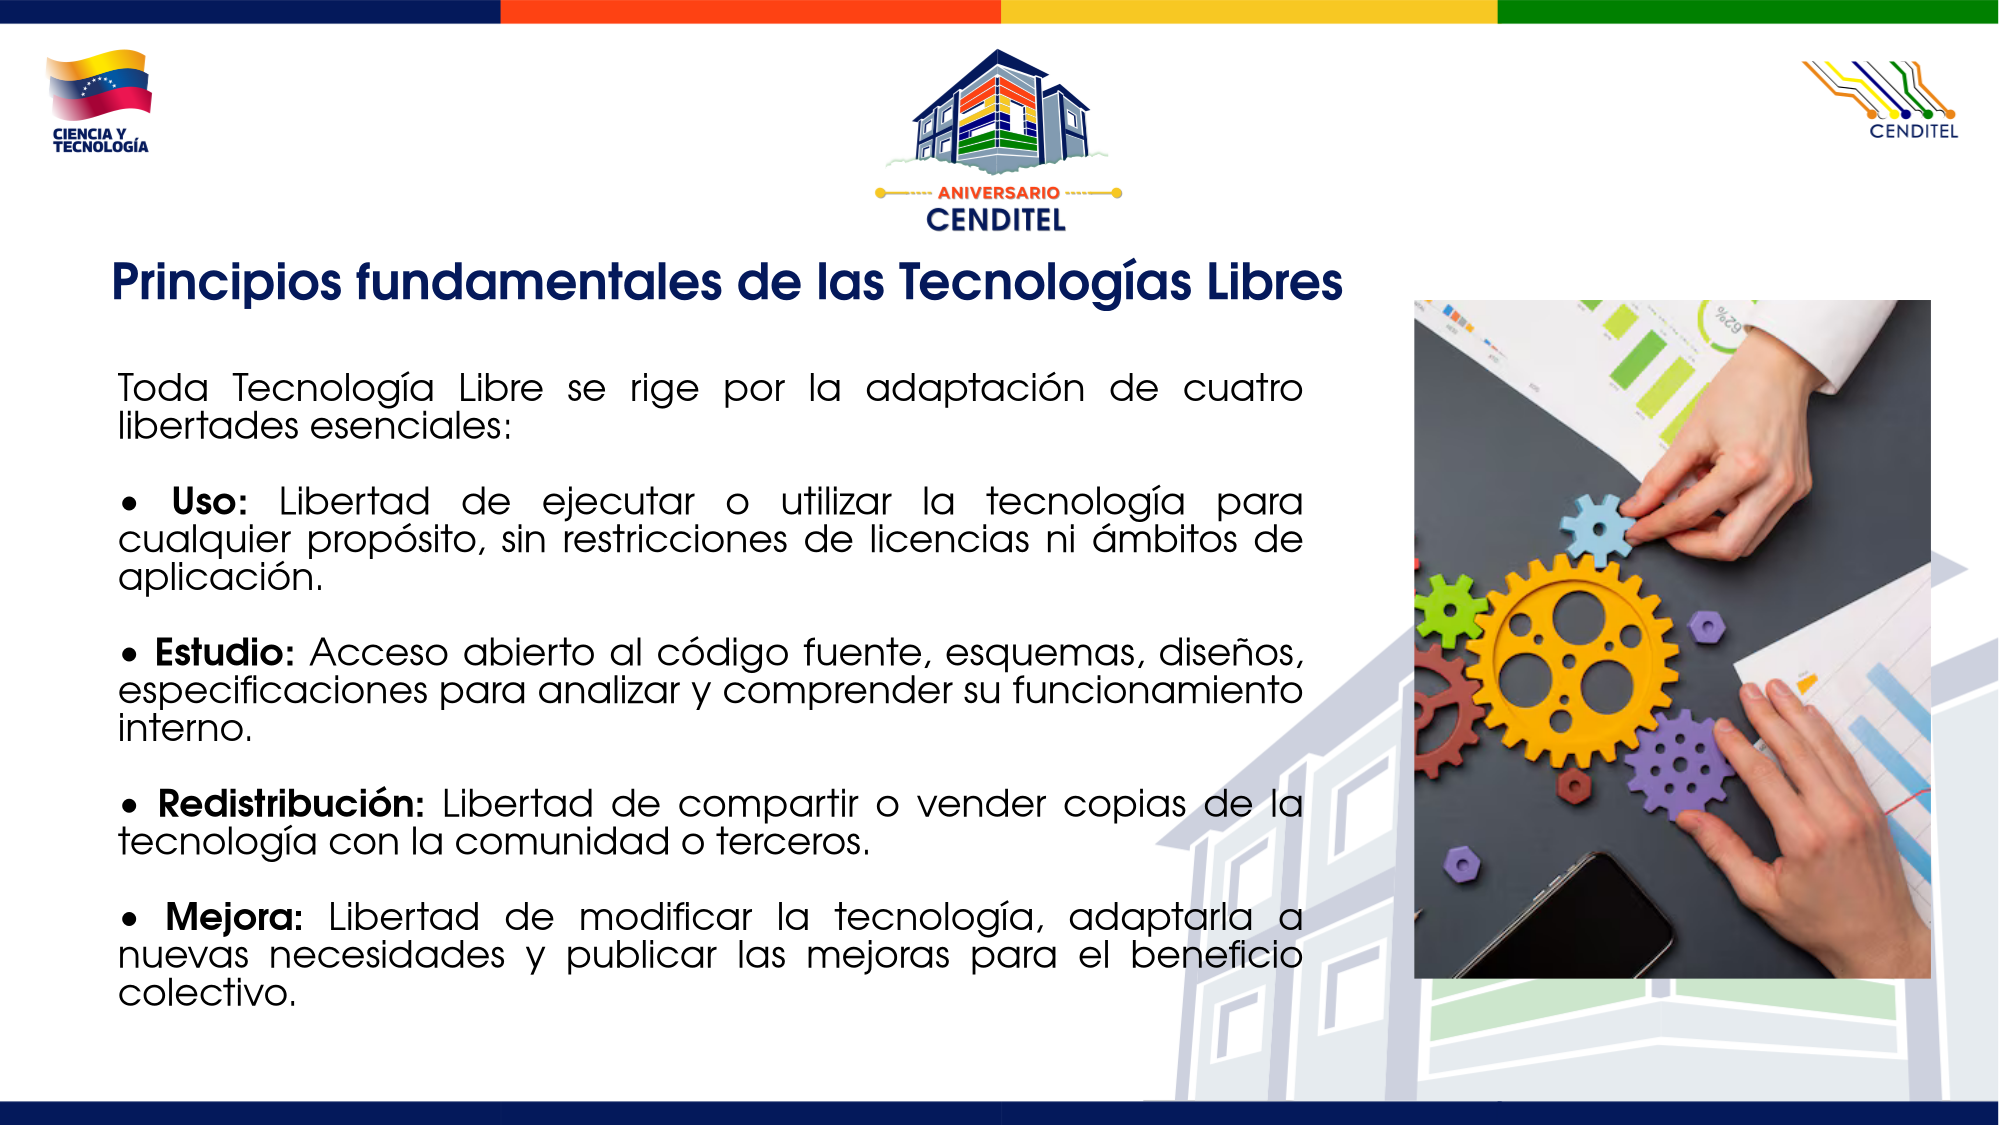
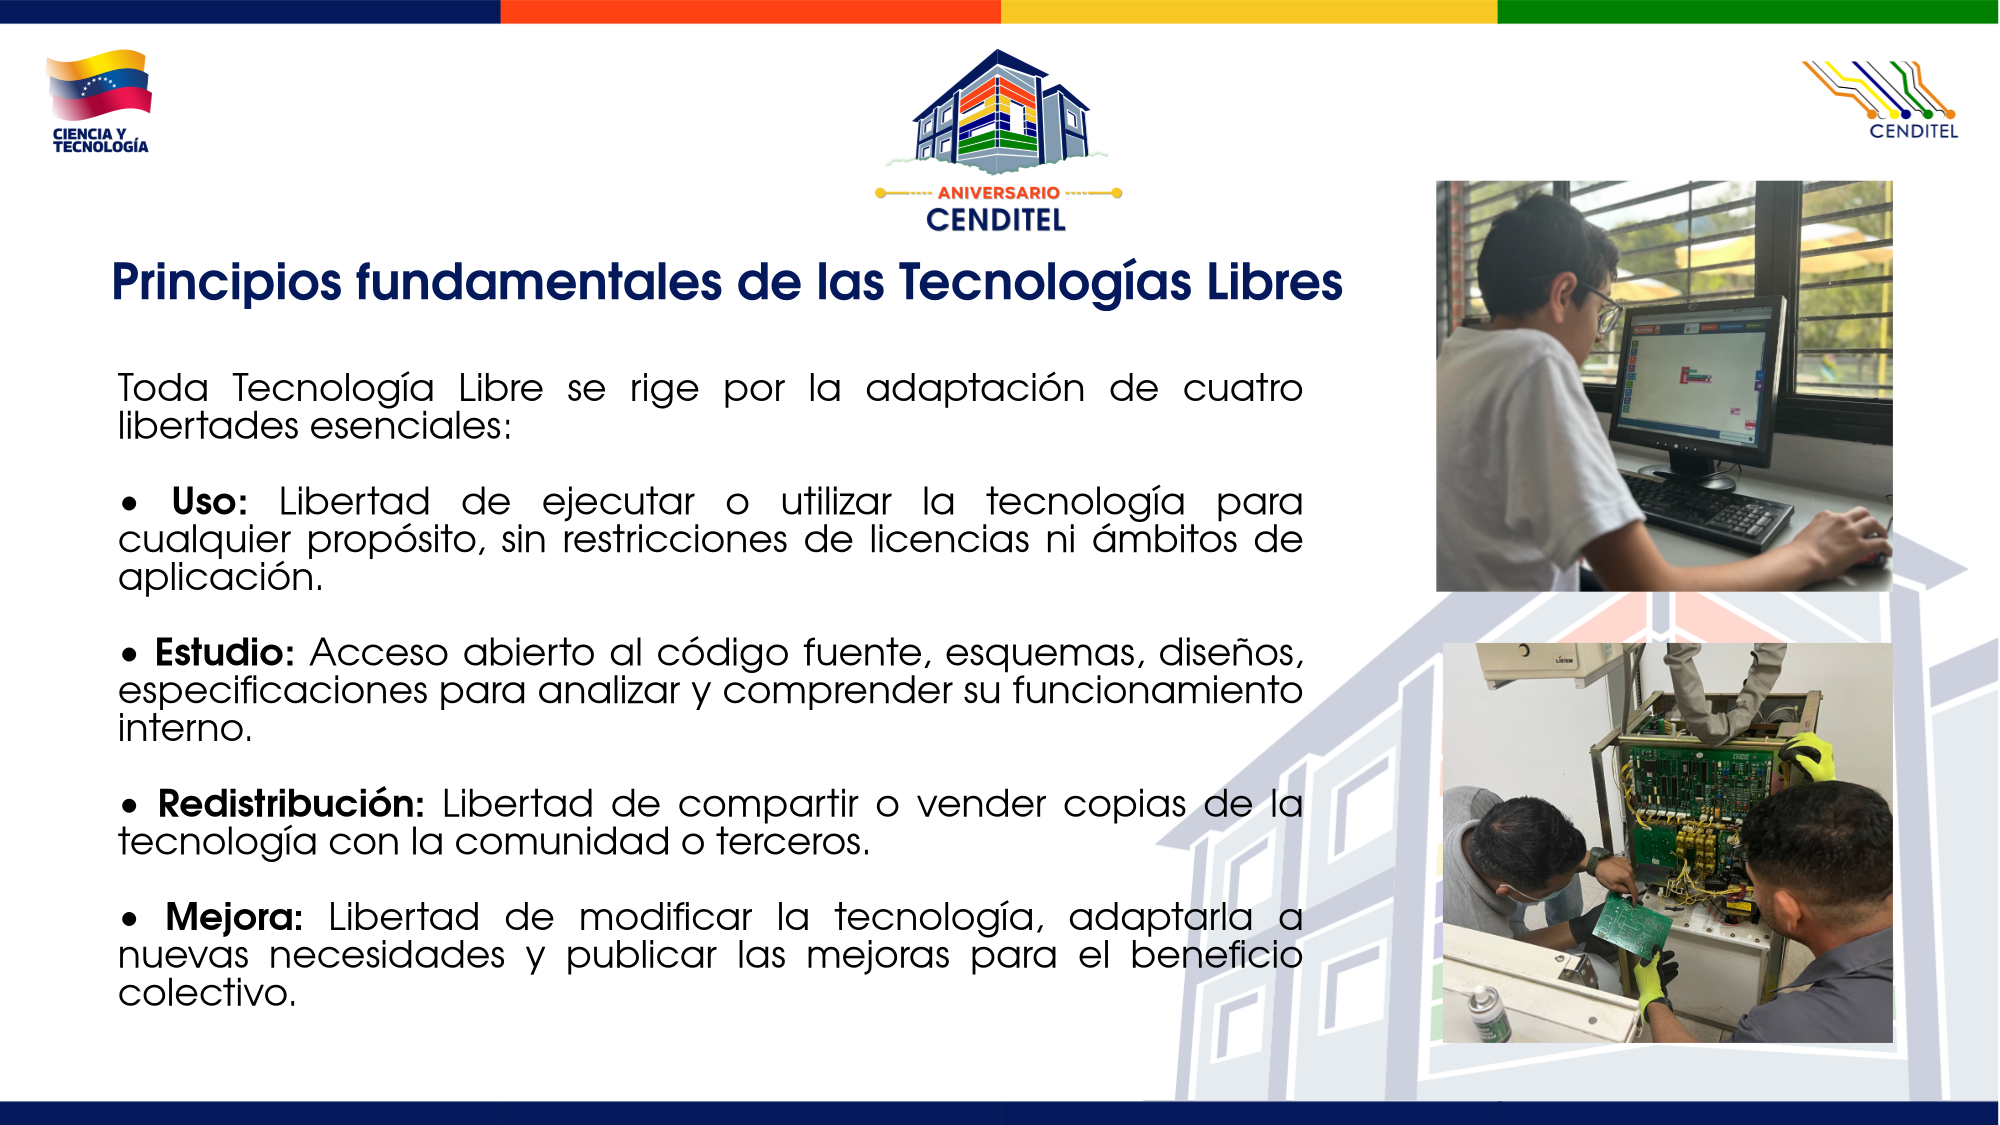
Updated images

Changed region(s): [[0.682, 0.1556, 0.992, 0.9333]]

diff --git a/index.html b/index.html
@@ -3,7 +3,7 @@
 <head>
     <meta charset="UTF-8">
     <meta name="viewport" content="width=device-width, initial-scale=1.0">
-    <title>Presentación con fondo de partículas</title>
+    <title>CENDITEL</title>
     <style>
         /* Estilos base para eliminar márgenes y configurar fuentes */
         * {
@@ -256,6 +256,66 @@
         <div id="slide-4" class="slide">
             <img src="static/4.png" alt="">
         </div>
+        <div id="slide-5" class="slide">
+            <img src="static/5.png" alt="">
+        </div>
+        <div id="slide-6" class="slide">
+            <img src="static/6.png" alt="">
+        </div>
+        <div id="slide-7" class="slide">
+            <img src="static/7.png" alt="">
+        </div>
+        <div id="slide-8" class="slide">
+            <img src="static/8.png" alt="">
+        </div>
+        <div id="slide-9" class="slide">
+            <img src="static/9.png" alt="">
+        </div>
+        <div id="slide-10" class="slide">
+            <img src="static/10.png" alt="">
+        </div>
+        <div id="slide-11" class="slide">
+            <img src="static/11.png" alt="">
+        </div>
+        <div id="slide-12" class="slide">
+            <img src="static/12.png" alt="">
+        </div>
+        <div id="slide-13" class="slide">
+            <img src="static/13.png" alt="">
+        </div>
+        <div id="slide-14" class="slide">
+            <img src="static/14.png" alt="">
+        </div>
+        <div id="slide-15" class="slide">
+            <img src="static/15.png" alt="">
+        </div>
+        <div id="slide-16" class="slide">
+            <img src="static/16.png" alt="">
+        </div>
+        <div id="slide-17" class="slide">
+            <img src="static/17.png" alt="">
+        </div>
+        <div id="slide-18" class="slide">
+            <img src="static/18.png" alt="">
+        </div>
+        <div id="slide-19" class="slide">
+            <img src="static/19.png" alt="">
+        </div>
+        <div id="slide-20" class="slide">
+            <img src="static/20.png" alt="">
+        </div>
+        <div id="slide-21" class="slide">
+            <img src="static/21.png" alt="">
+        </div>
+        <div id="slide-22" class="slide">
+            <img src="static/22.png" alt="">
+        </div>
+        <div id="slide-23" class="slide">
+            <img src="static/23.png" alt="">
+        </div>
+        <div id="slide-24" class="slide">
+            <img src="static/24.png" alt="">
+        </div>
     </div>
 
     <!-- Script de particles.js para crear el fondo animado -->
@@ -313,7 +373,7 @@
 
         // Variables para controlar la lámina actual y el total de láminas
         let currentSlide = 1;
-        const totalSlides = 4;
+        const totalSlides = 24;
         const transitionEffects = ['slide', 'fade', 'zoom', 'vertical', 'rotate'];
         let previousEffect = null;
         let transitionTimeout;
